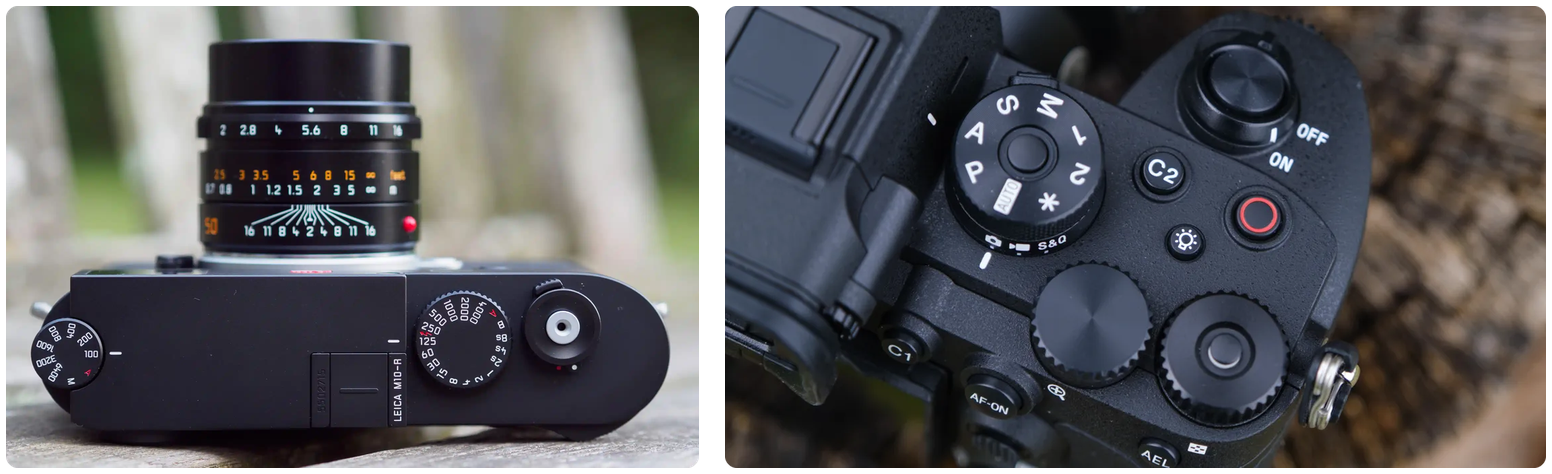
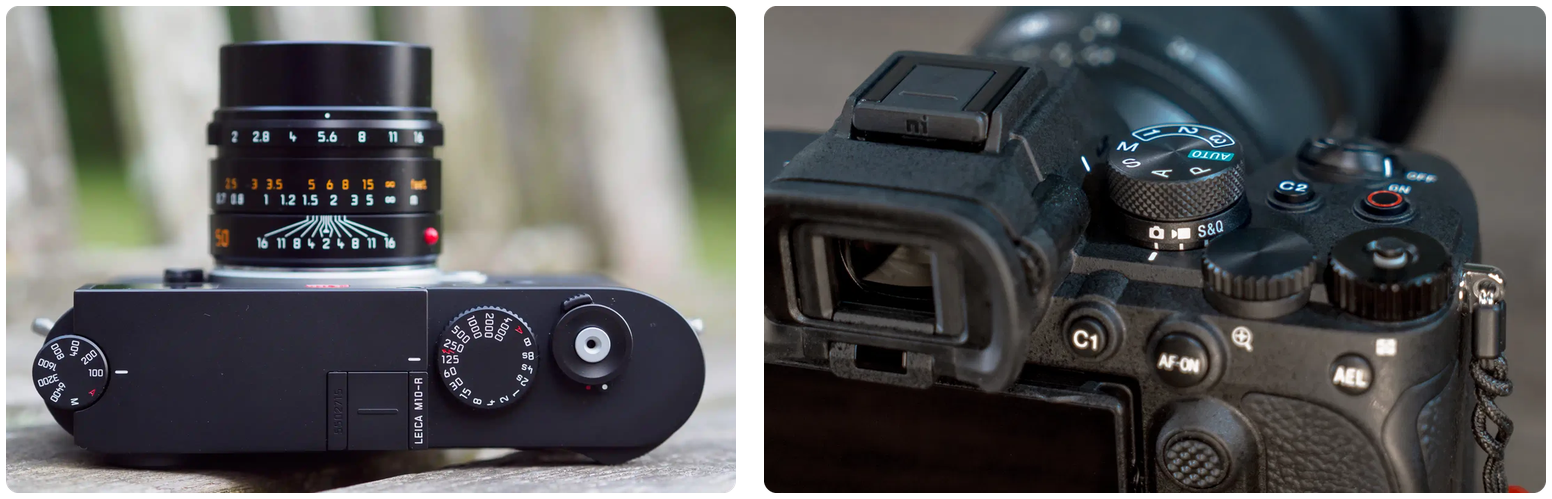
Update Glint post images and captions
Swap in the Sony A1 II top plate, name both cameras in the caption,
crop the SET menu image tight, and add an optional maxWidth to MDX
image captions so portrait screenshots stay phone-sized.

Claude-Session: https://claude.ai/code/session_01R9SXnrSyeTvFLHrW7kQhiF

diff --git a/src/app/blog/[slug]/mdx-components.tsx b/src/app/blog/[slug]/mdx-components.tsx
@@ -34,7 +34,8 @@ const MdxImageCaption: React.FunctionComponent<{
   emphasized?: boolean
   fullwidth?: boolean
   aspectRatio?: string
-}> = ({ image, altText, caption, emphasized, fullwidth, aspectRatio = '16 / 9' }) => {
+  maxWidth?: string
+}> = ({ image, altText, caption, emphasized, fullwidth, aspectRatio = '16 / 9', maxWidth }) => {
   const resolved = resolveImagePath(image)
   if (!resolved) return null
   return (
@@ -47,9 +48,11 @@ const MdxImageCaption: React.FunctionComponent<{
           // eslint-disable-next-line @next/next/no-img-element
           <img src={resolved} alt={altText} />
         ) : (
-          <FillImageBox $aspectRatio={aspectRatio}>
-            <Image src={resolved} alt={altText ?? ''} fill style={{ objectFit: 'cover' }} />
-          </FillImageBox>
+          <div style={maxWidth ? { maxWidth, margin: '0 auto' } : undefined}>
+            <FillImageBox $aspectRatio={aspectRatio}>
+              <Image src={resolved} alt={altText ?? ''} fill style={{ objectFit: 'cover' }} />
+            </FillImageBox>
+          </div>
         )
       }
     />
